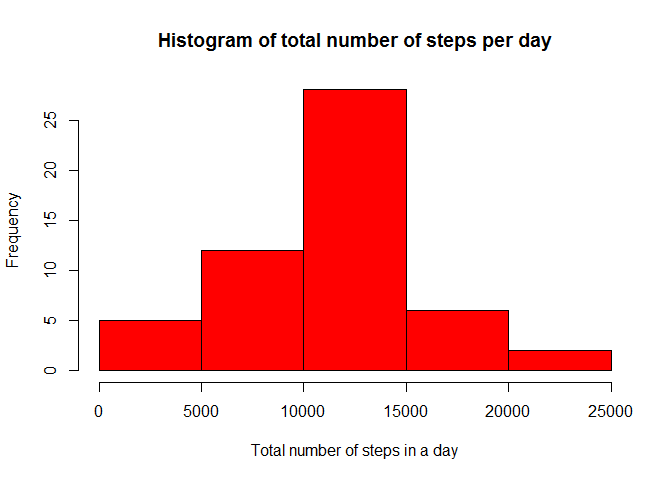
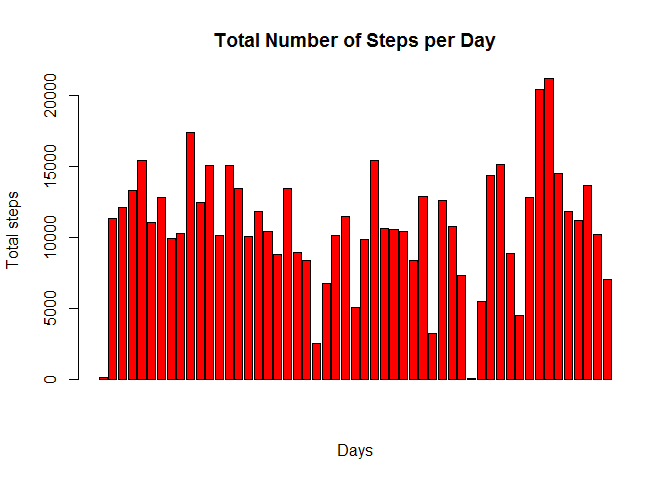
Changed hist to barplots, fixed mistyped variables

diff --git a/PA1_template.html b/PA1_template.html
@@ -80,8 +80,8 @@ data &lt;- aggregate(steps ~ date, data, sum)</code></pre>
 <ol style="list-style-type: decimal">
 <li>Make a histogram of the total number of steps taken each day</li>
 </ol>
-<pre class="r"><code>hist(data$steps, col=&quot;red&quot;, xlab=&quot;Total steps per day&quot;, ylab=&quot;Number of days&quot;, main=&quot;Total Steps Taken Per Day&quot;)</code></pre>
[1 lines of base64/hex data omitted]
+<pre class="r"><code>barplot(data$steps, col=&quot;red&quot;, xlab=&quot;Days&quot;, ylab=&quot;Total steps&quot;, main=&quot;Total Steps Taken Per Day&quot;)</code></pre>
[1 lines of base64/hex data omitted]
 <ol start="2" style="list-style-type: decimal">
 <li>Calculate and report the mean and median total number of steps taken per day</li>
 </ol>
@@ -101,9 +101,9 @@ stepsinterval &lt;- aggregate(steps ~ interval, rawdata, mean)
 # generate the line plot of the 5-minute interval (x-axis) and the average number of 
 # steps taken, averaged across all days (y-axis)
 plot(stepsinterval$interval, stepsinterval$steps, type='l', col=1, 
-     main=&quot;Average number of steps averaged over all days&quot;, xlab=&quot;Interval&quot;, 
+     main=&quot;Average number of steps over all days&quot;, xlab=&quot;Interval&quot;, 
      ylab=&quot;Average number of steps&quot;)</code></pre>
[2 lines of base64/hex data omitted]
 <ol start="2" style="list-style-type: decimal">
 <li>Which 5-minute interval, on average across all the days in the dataset, contains the maximum number of steps?</li>
 </ol>
@@ -133,8 +133,8 @@ emptyrows &lt;- nrow(dataNAs)</code></pre>
 <pre class="r"><code>for (i in 1:nrow(data)){
   if (is.na(data$steps[i])){
     intervalval &lt;- data$interval[i]
-    row_id &lt;- which(intervalsteps$interval == intervalval)
-    steps_val &lt;- intervalsteps$steps[row_id]
+    row_id &lt;- which(stepsinterval$interval == intervalval)
+    steps_val &lt;- stepsinterval$steps[row_id]
     data$steps[i] &lt;- steps_val
   }
 }</code></pre>
@@ -147,12 +147,14 @@ stepsperdate &lt;- aggregate(steps ~ date, data, sum)</code></pre>
 <li>Make a histogram of the total number of steps taken each day and Calculate and report the mean and median total number of steps taken per day. Do these values differ from the estimates from the first part of the assignment? What is the impact of imputing missing data on the estimates of the total daily number of steps?</li>
 </ol>
 <pre class="r"><code># creates histogram of total number of steps in a day
-hist(stepsperdate$steps, col=&quot;red&quot;, main=&quot;Histogram of total number of steps per day&quot;, xlab=&quot;Total number of steps in a day&quot;)</code></pre>
[1 lines of base64/hex data omitted]
+barplot(stepsperdate$steps, col=&quot;red&quot;, xlab=&quot;Days&quot;, ylab=&quot;Total steps&quot;, main=&quot;Total Number of Steps per Day&quot;)</code></pre>
[1 lines of base64/hex data omitted]
 <pre class="r"><code># get mean and median of total number of steps per day
 tmean &lt;- mean(stepsperdate$steps)</code></pre>
 <pre class="r"><code>tmedian &lt;- median(stepsperdate$steps)</code></pre>
-<p>The mean value is 1.076618910^{4} and median is 10765 for total number of steps taken per day. Do these values differ from the estimates from the first part of the assignment? Due to data imputation, the means remain same whereas there is slight change in median value.</p>
+<p>The mean value of steps per day is 1.076618910^{4} and median steps per day is 10765.</p>
+<p>Do these values differ from the estimates from the first part of the assignment?</p>
+<p>Due to data imputation, the means remain same whereas there is slight change in median value.</p>
 </div>
 <div id="are-there-differences-in-activity-patterns-between-weekdays-and-weekends" class="section level2">
 <h2>Are there differences in activity patterns between weekdays and weekends?</h2>

diff --git a/PA1_template.md b/PA1_template.md
@@ -32,7 +32,7 @@ For this part of the assignment, you can ignore the missing values in the datase
 
 
 ```r
-hist(data$steps, col="red", xlab="Total steps per day", ylab="Number of days", main="Total Steps Taken Per Day")
+barplot(data$steps, col="red", xlab="Days", ylab="Total steps", main="Total Steps Taken Per Day")
 ```
 
 ![](PA1_template_files/figure-html/unnamed-chunk-3-1.png) 
@@ -61,7 +61,7 @@ stepsinterval <- aggregate(steps ~ interval, rawdata, mean)
 # generate the line plot of the 5-minute interval (x-axis) and the average number of 
 # steps taken, averaged across all days (y-axis)
 plot(stepsinterval$interval, stepsinterval$steps, type='l', col=1, 
-     main="Average number of steps averaged over all days", xlab="Interval", 
+     main="Average number of steps over all days", xlab="Interval", 
      ylab="Average number of steps")
 ```
 
@@ -111,8 +111,8 @@ the mean/median for that day, or the mean for that 5-minute interval, etc.
 for (i in 1:nrow(data)){
   if (is.na(data$steps[i])){
     intervalval <- data$interval[i]
-    row_id <- which(intervalsteps$interval == intervalval)
-    steps_val <- intervalsteps$steps[row_id]
+    row_id <- which(stepsinterval$interval == intervalval)
+    steps_val <- stepsinterval$steps[row_id]
     data$steps[i] <- steps_val
   }
 }
@@ -136,7 +136,7 @@ daily number of steps?
 
 ```r
 # creates histogram of total number of steps in a day
-hist(stepsperdate$steps, col="red", main="Histogram of total number of steps per day", xlab="Total number of steps in a day")
+barplot(stepsperdate$steps, col="red", xlab="Days", ylab="Total steps", main="Total Number of Steps per Day")
 ```
 
 ![](PA1_template_files/figure-html/unnamed-chunk-10-1.png) 
@@ -150,8 +150,11 @@ tmean <- mean(stepsperdate$steps)
 tmedian <- median(stepsperdate$steps)
 ```
 
-The mean value is 1.0766189\times 10^{4} and median is 10765 for total number of steps taken per day. Do
-these values differ from the estimates from the first part of the assignment? Due to data imputation, the means remain same whereas there is slight change in median value.
+The mean value of steps per day is 1.0766189\times 10^{4} and median steps per day is 10765. 
+
+Do these values differ from the estimates from the first part of the assignment? 
+
+Due to data imputation, the means remain same whereas there is slight change in median value.
 
 ## Are there differences in activity patterns between weekdays and weekends?
 
